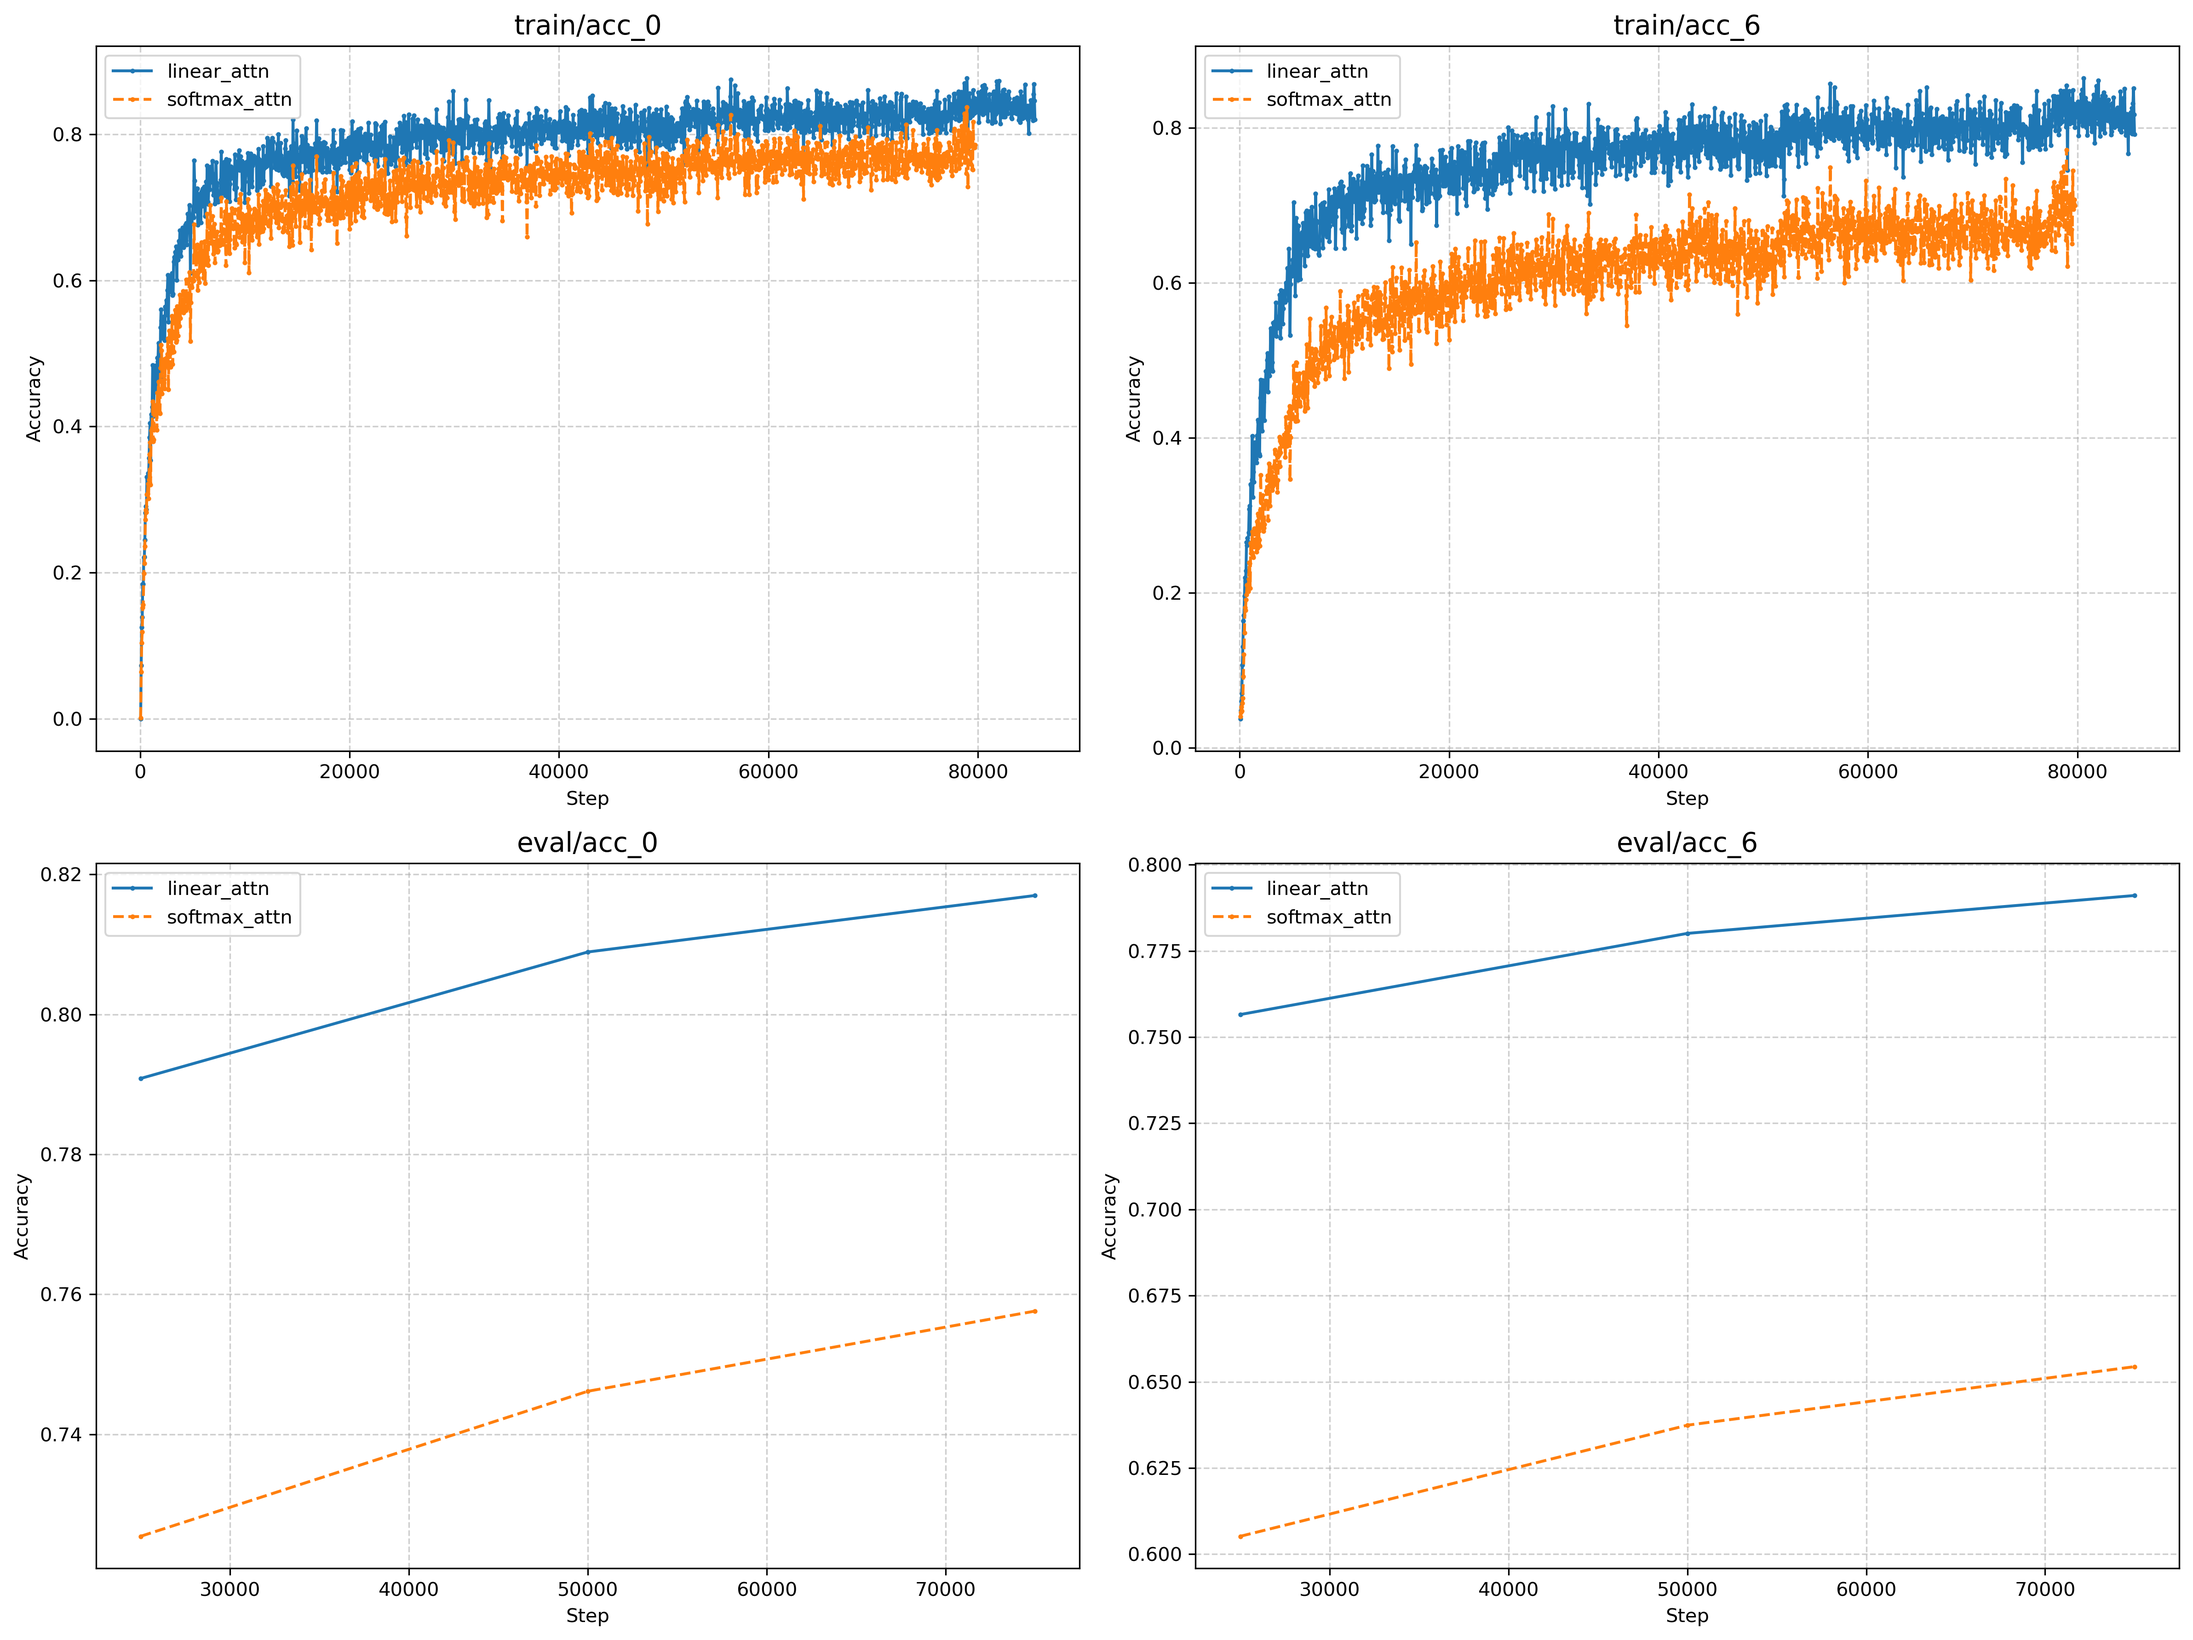
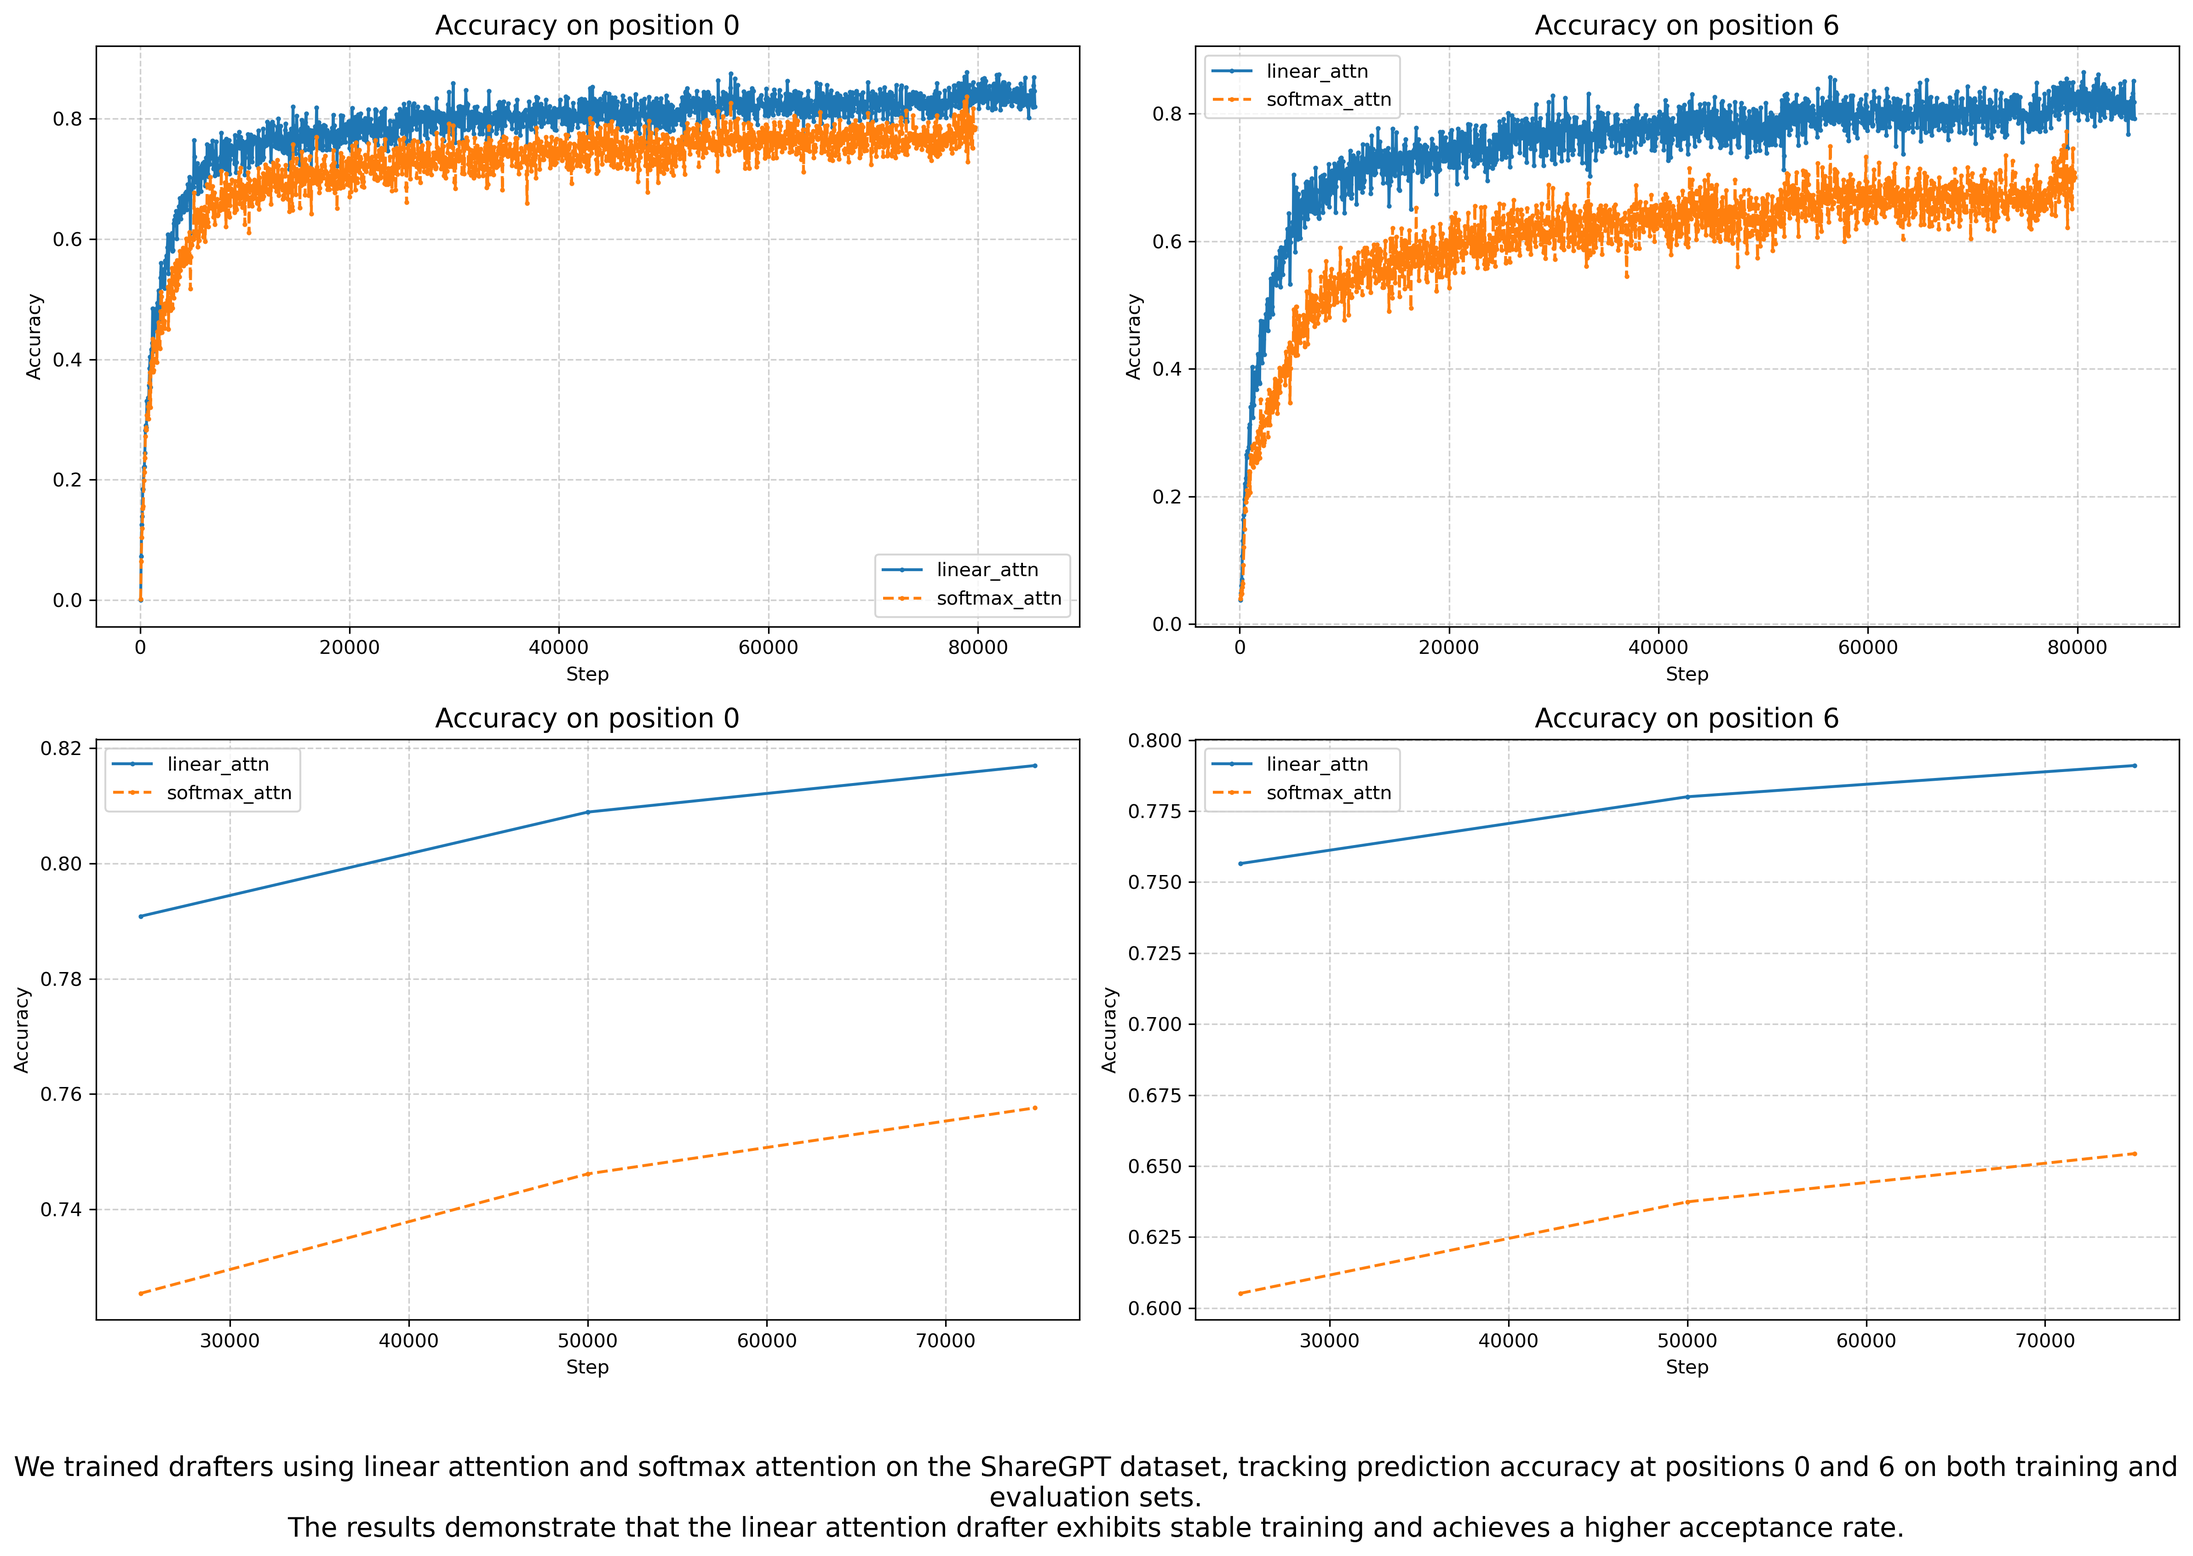
update graph

diff --git a/results/plot.py b/results/plot.py
@@ -49,11 +49,28 @@ def plot_four_acc(df_all, output_file="accuracy_comparison.png"):
         'eval/acc_6'
     ]
     
+    # 子图标题
+    subplot_titles = [
+        "Accuracy on position 0",
+        "Accuracy on position 6",
+        "Accuracy on position 0",
+        "Accuracy on position 6"
+    ]
+    
+    # 【新增】底部说明文字 (Caption)
+    bottom_caption = (
+        "We trained drafters using linear attention and softmax attention on the ShareGPT dataset, tracking prediction accuracy at positions 0 and 6 on both training and evaluation sets.\nThe results demonstrate that the linear attention drafter exhibits stable training and achieves a higher acceptance rate."
+    )
+    
     fig, axes = plt.subplots(2, 2, figsize=(16, 12))
+    
+    # 顶部大标题
+    # fig.suptitle("Training on sharegpt dataset", fontsize=20, fontweight='bold')
+    
     axes = axes.flatten()
     
     sources = sorted(df_all['source'].unique())
-    linestyles = ['-', '--', '-.', ':']  # 支持最多4个实验
+    linestyles = ['-', '--', '-.', ':']
     
     for idx, tag in enumerate(target_tags):
         ax = axes[idx]
@@ -72,22 +89,36 @@ def plot_four_acc(df_all, output_file="accuracy_comparison.png"):
                 )
                 plotted = True
         
-        ax.set_title(tag, fontsize=14)
+        ax.set_title(subplot_titles[idx], fontsize=14)
         ax.set_xlabel('Step')
         ax.set_ylabel('Accuracy')
         ax.grid(True, linestyle='--', alpha=0.6)
         if plotted:
             ax.legend()
     
-    plt.tight_layout()
+    # 【修改布局】
+    # rect=[left, bottom, right, top]
+    # 将 bottom 从 0.03 改为 0.1，为底部的 caption 留出足够的空白区域
+    plt.tight_layout(rect=[0, 0.1, 1, 0.95])
+    
+    # 【新增】在底部添加文字
+    # x=0.5, y=0.02 表示水平居中，位于底部上方 2% 的位置
+    fig.text(
+        0.5, 0.02, 
+        bottom_caption, 
+        ha='center', 
+        fontsize=14, 
+        wrap=True
+    )
+    
     plt.savefig(output_file, dpi=300, bbox_inches='tight')
     print(f"\n✅ Plot saved to: {output_file}")
     plt.show()
 
 def main():
     parser = argparse.ArgumentParser(description="Plot train/eval acc_0 and acc_6 from two TensorBoard logs")
-    parser.add_argument("--logdir1", help="Path to first TensorBoard log directory (e.g., linear_attn)")
-    parser.add_argument("--logdir2", help="Path to second TensorBoard log directory (e.g., softmax_attn)")
+    parser.add_argument("--logdir1", help="Path to first TensorBoard log directory")
+    parser.add_argument("--logdir2", help="Path to second TensorBoard log directory")
     parser.add_argument("--output", "-o", default="accuracy_comparison.png", help="Output image file")
     args = parser.parse_args()
     
